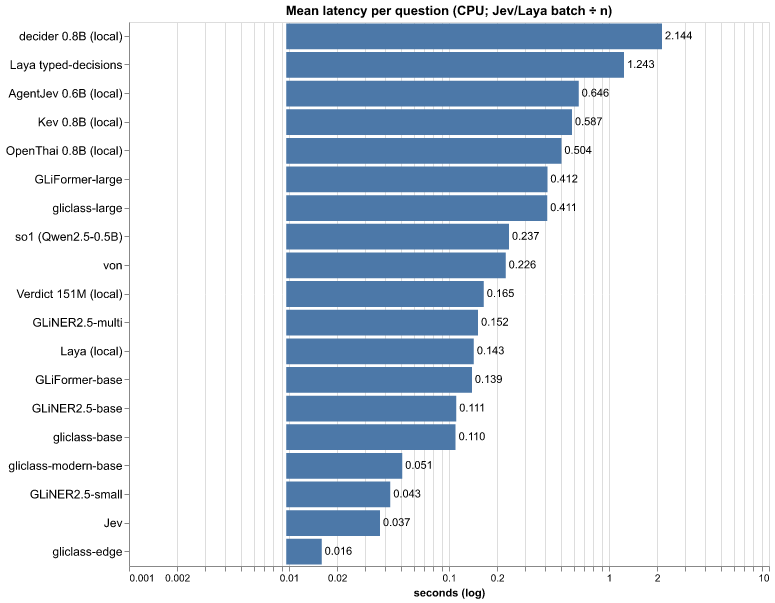
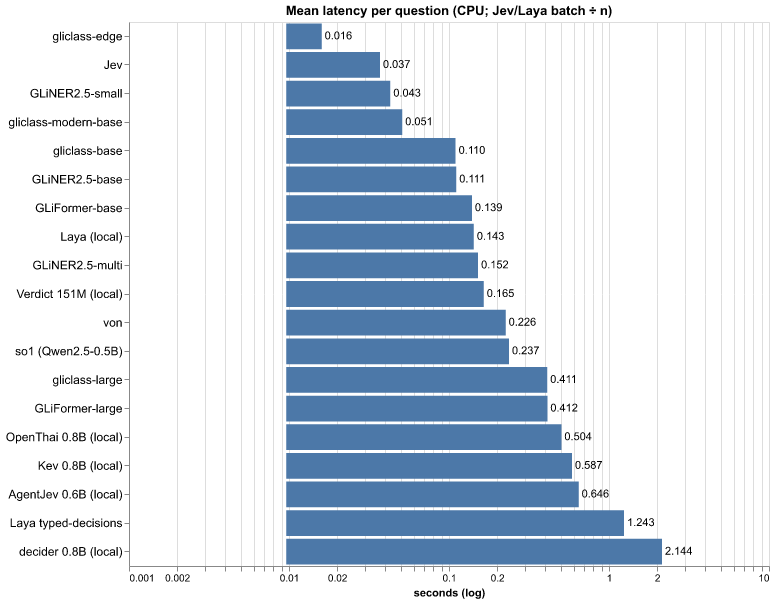
fix(ui): put the best system at the top of every chart
Accuracy, NER and multilingual charts already sorted best-first (top
row = highest accuracy). The two latency charts inherited hbar_chart's
largest-value-first default, which put the slowest system on top.
Thread a descending flag through hbar_chart_labeled (bars and end
labels) and pass descending=False at both latency call sites, so the
fastest system is on top there too. Regenerated cls_latency.png; all
other charts are byte-identical.

diff --git a/app.py b/app.py
@@ -99,10 +99,12 @@ def hbar_chart(df: pd.DataFrame, value: str, title: str,
 
 
 def hbar_chart_labeled(df: pd.DataFrame, value: str, title: str,
-                       value_title: str, fmt: str = ".1f", log: bool = False):
+                       value_title: str, fmt: str = ".1f", log: bool = False,
+                       descending: bool = True):
     """hbar_chart plus the numeric value printed at each bar's end."""
-    base = hbar_chart(df, value, title, value_title, log=log)
-    order = df.sort_values(value, ascending=False)["System"].tolist()
+    base = hbar_chart(df, value, title, value_title, descending=descending,
+                      log=log)
+    order = df.sort_values(value, ascending=not descending)["System"].tolist()
     labels = (
         alt.Chart(df)
         .mark_text(align="left", dx=3, fontSize=11)
@@ -354,9 +356,9 @@ def build_classification_tab():
     gr.Plot(hbar_chart_labeled(summary, "Accuracy %",
                                "Classification accuracy, mixed pool",
                                "Accuracy %"))
-    gr.Plot(hbar_chart(summary.sort_values("s per question"), "s per question",
+    gr.Plot(hbar_chart(summary, "s per question",
                        "Mean latency per question (CPU; Jev/Laya batch ÷ n)",
-                       "seconds"))
+                       "seconds", descending=False))
     gr.Plot(tradeoff_scatter(summary, "Speed vs accuracy — up and left "
                                       "is better"))
 

diff --git a/make_chart_images.py b/make_chart_images.py
@@ -48,7 +48,7 @@ def spectrum_charts(bench):
         "cls_latency": hbar_chart_labeled(
             summary, "s per question",
             "Mean latency per question (CPU; Jev/Laya batch ÷ n)",
-            "seconds (log)", fmt=".3f", log=True),
+            "seconds (log)", fmt=".3f", log=True, descending=False),
         "cls_tradeoff": tradeoff_scatter(
             summary, "Speed vs accuracy — up and left is better"),
     }
